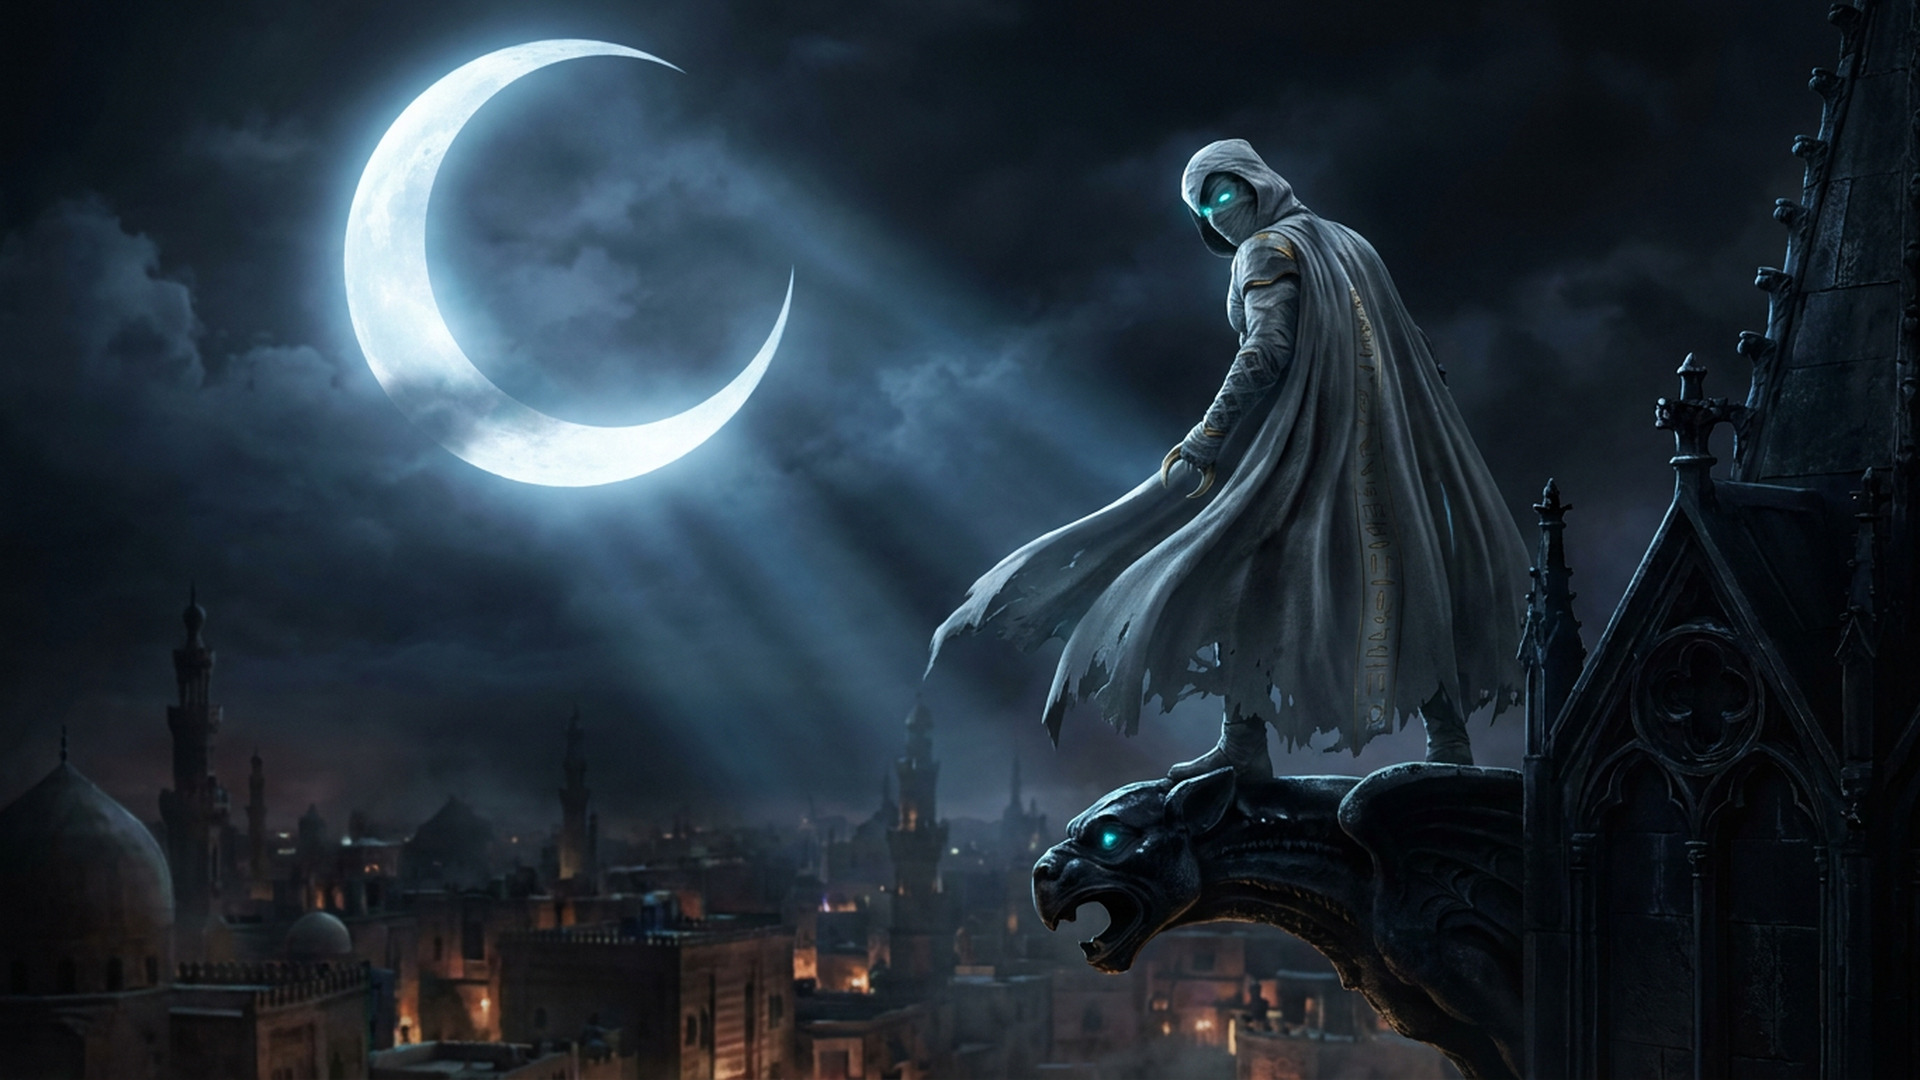
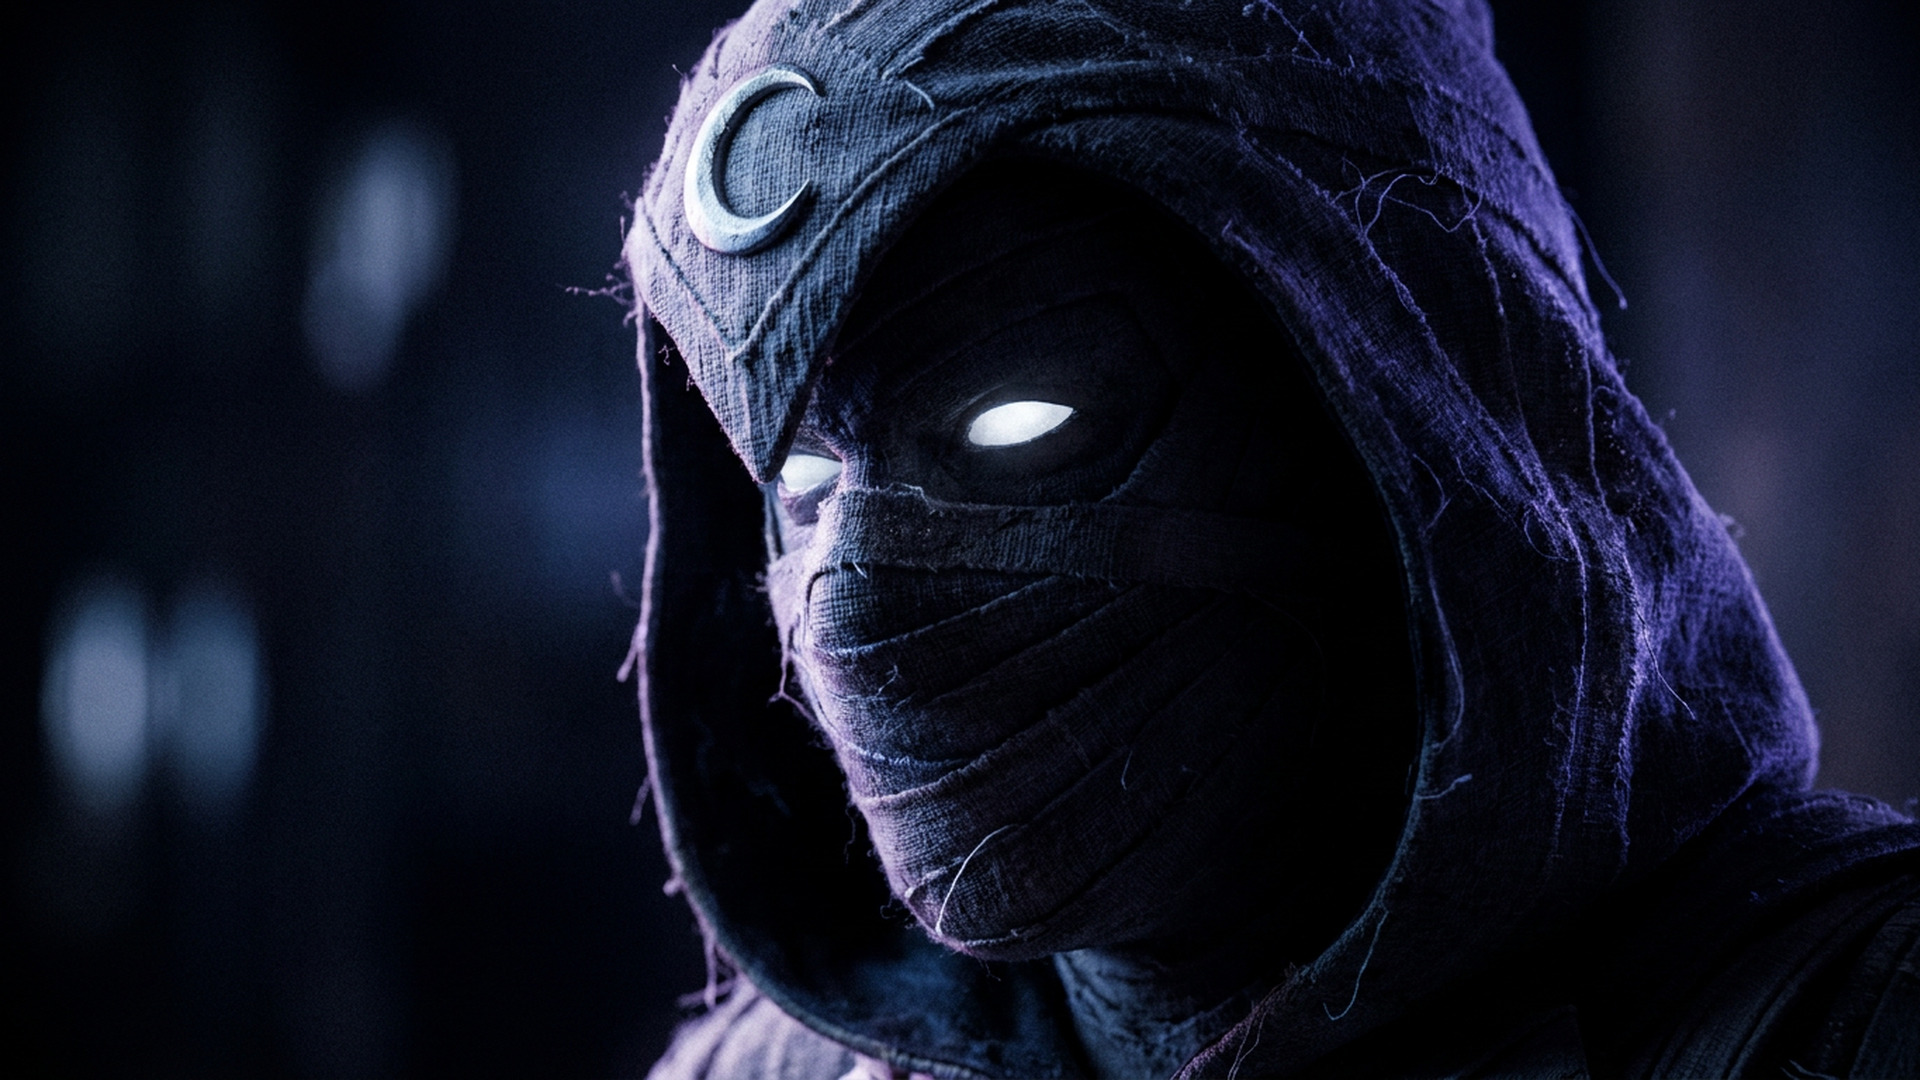
feat: refine Moon Knight theme with macro textures and black-violet-white gradient palette

diff --git a/README.md b/README.md
@@ -5,40 +5,41 @@
 <h1 align="center">Moon Knight</h1>
 
 <p align="center">
-  <em>An Egyptian obsidian and celestial cyan theme for <a href="https://omarchy.org/">Omarchy</a></em>
+  <em>An obsidian, celestial violet, and alabaster theme for <a href="https://omarchy.org/">Omarchy</a></em>
 </p>
 
 <p align="center">
-  <em>#dark · #moonknight · #marvel · #cyan · #obsidian</em>
+  <em>#dark · #moonknight · #violet · #monochrome · #macro · #noir</em>
 </p>
 
 ---
 
-Inspired by Marvel's avatar of Khonshu, the Egyptian god of the Moon and the night sky. The palette blends deep Egyptian obsidian and midnight slate with luminous crescent silver, ceremonial hieroglyphic gold, and spectral celestial cyan.
+Inspired by the dark psychological noir aesthetic of Warren Ellis, Declan Shalvey, and Greg Smallwood's acclaimed *Moon Knight* runs. The palette builds upon a gradient from inky obsidian black (`#09070d`), through atmospheric Egyptian celestial violet (`#a855f7`), into stark lunar silver and pure alabaster white (`#ffffff`).
 
 ## Visual Palette
 
 | Token | Hex | Role |
 | :--- | :--- | :--- |
-| `background` | `#0c0f14` | Deep Egyptian obsidian canvas |
-| `dark_background` | `#080a0e` | Crypt black background |
-| `lighter_background`| `#161b22` | Lunar basalt / panel surfaces |
-| `foreground` | `#e6edf3` | Crescent silver / spectral wraps |
+| `background` | `#09070d` | Obsidian black canvas with deep violet undertone |
+| `dark_background` | `#060408` | Crypt abyss black |
+| `lighter_background`| `#161122` | Midnight violet basalt / card surfaces |
+| `foreground` | `#e5e1f0` | Moonlit linen / silver foreground |
 | `bright_foreground` | `#ffffff` | Pure Mr. Knight alabaster |
-| `accent` | `#38bdf8` | Khonshu celestial cyan |
-| `selection` | `#21262d` | Midnight shadow selection |
-| `muted` | `#484f58` | Weathered tomb slate |
-| `red` | `#f85149` | Blood moon crimson |
-| `yellow` | `#e3b341` | Ceremonial hieroglyphic gold |
-| `green` | `#3fb950` | Scarab emerald |
-| `blue` | `#58a6ff` | Cairo twilight blue |
-| `magenta` | `#bc8cff` | Ethereal divinity purple |
-| `cyan` | `#38bdf8` | Lunar spectral radiance |
+| `accent` | `#a855f7` | Khonshu celestial violet |
+| `selection` | `#281d3d` | Amethyst shadow selection |
+| `muted` | `#493e5e` | Weathered tomb violet-slate |
+| `red` | `#e05263` | Blood moon crimson |
+| `yellow` | `#eab308` | Ancient hieroglyphic gold |
+| `green` | `#10b981` | Sacred scarab jade |
+| `blue` | `#818cf8` | Cairo midnight violet-blue |
+| `magenta` | `#a855f7` | Ethereal divinity purple |
+| `cyan` | `#67e8f9` | Cold lunar spectral cyan |
 
-## Included Wallpapers
+## Included Macro Wallpapers
 
-1. **The Fist of Khonshu** (`backgrounds/1-moon-knight-cairo.png`): Moon Knight perched above Cairo beneath a glowing crescent moon and moonbeams.
-2. **Mr. Knight Noir** (`backgrounds/2-mr-knight-noir.png`): Mr. Knight in a tailored white three-piece suit holding truncheons in the cyan rain.
+1. **The Fist of Khonshu** (`backgrounds/1-moon-knight-cowl.png`): Macro anamorphic close-up of Moon Knight's weathered linen mummy cowl, frayed threads, glowing white eyes, and violet rim lighting.
+2. **Mr. Knight Noir** (`backgrounds/2-mr-knight-macro.png`): High-contrast tactile close-up of Mr. Knight's woven mask, embroidered crescent moon, and tailored suit framed by violet smoke.
+3. **Khonshu's Relic** (`backgrounds/3-khonshu-skull.png`): Weathered Egyptian bird god skull engraved with hieroglyphs, wrapped in ancient linen beside a crescent moon staff.
 
 ## Installation
 
@@ -55,7 +56,7 @@ Activate the theme:
 omarchy theme set moon-knight
 ```
 
-To cycle backgrounds within the theme:
+Cycle wallpapers:
 
 ```bash
 omarchy background next
